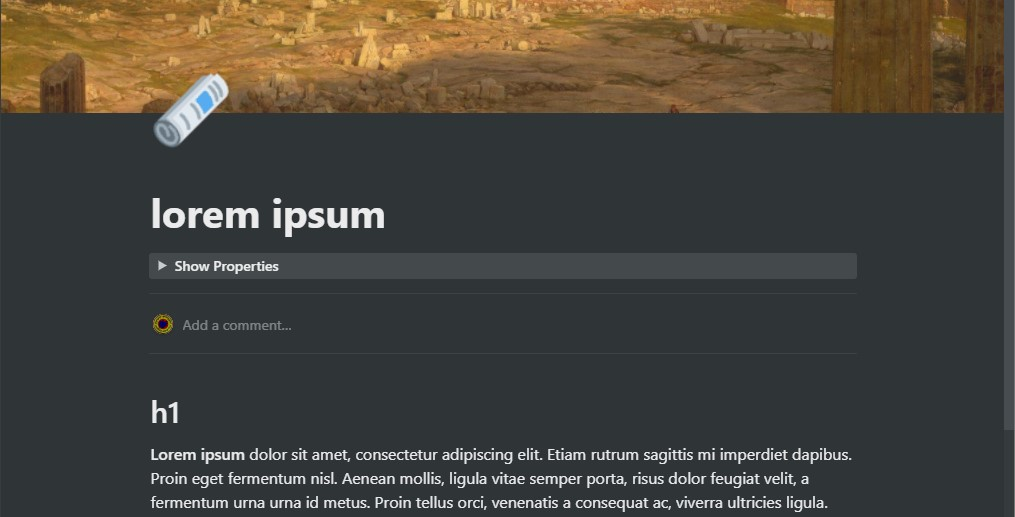
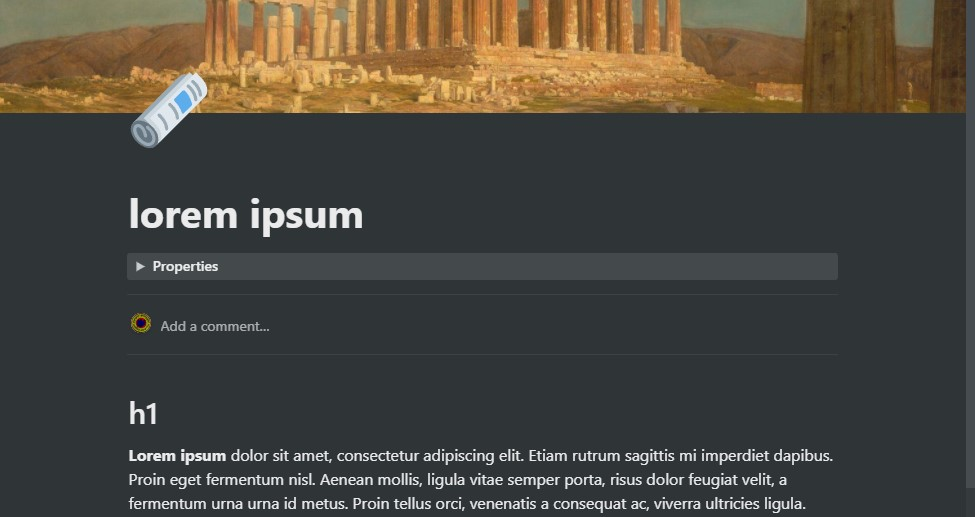
collapsible properties: remove 'hide/show' from button title

diff --git a/collapsible-properties/client.css b/collapsible-properties/client.css
@@ -29,6 +29,9 @@
   text-align: left;
   color: var(--theme--text);
 }
+#enhancer--collapse-properties > span:before {
+  content: 'Properties';
+}
 #enhancer--collapse-properties > svg {
   fill: var(--theme--icon);
   height: 0.8em;
@@ -37,14 +40,8 @@
   transition: transform 200ms ease-out 0s;
 }
 
-#enhancer--collapse-properties[data-collapsed='false'] > span:before {
-  content: 'Collapse Properties';
-}
 #enhancer--collapse-properties[data-collapsed='false'] > svg {
   transform: rotateZ(180deg);
-}
-#enhancer--collapse-properties[data-collapsed='true'] > span:before {
-  content: 'Show Properties';
 }
 #enhancer--collapse-properties[data-collapsed='true'] > svg {
   transform: rotateZ(90deg);
